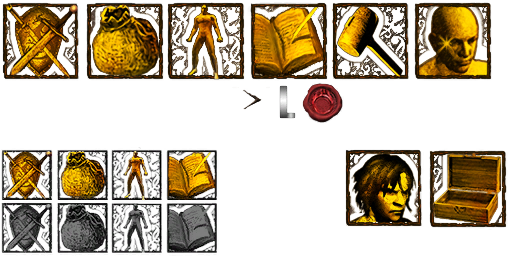
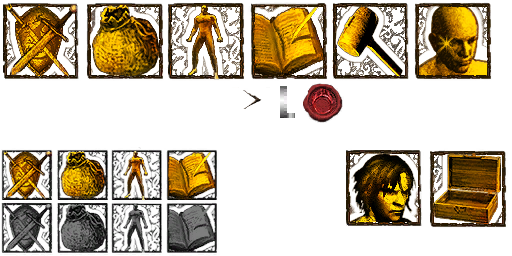
update textures

diff --git a/README.md b/README.md
@@ -180,7 +180,8 @@ Source code: <your GitHub link>
 * **SSAO effects:** Tomerk (OBGE VSSAO, HBAO), Asmodean (VSSAO2), Durante.
 * **SuperFastHash** by Paul Hsieh. **Microsoft Detours** (MIT).
 * **[DDTM Controller Fix](https://github.com/DDTM-bit/DDTMControllerFixPDTE)** (`DDTMControllerFix.dll`, included): GNU GPL v3. It uses SDL2, SDL2-CS, MinHook.NET (a port of MinHook), SharpDisasm/udis86 and the .NET runtime.
-
+* Controller button icons (PlayStation, Xbox, Switch), keyboard icons, the menu cursor and the map pictures: made by DDTM.
+* Effect/infusion icons and quick-menu pictures: the game's own textures (FromSoftware / Bandai Namco), upscaled.
 
 ## Third-Party Licenses
 
